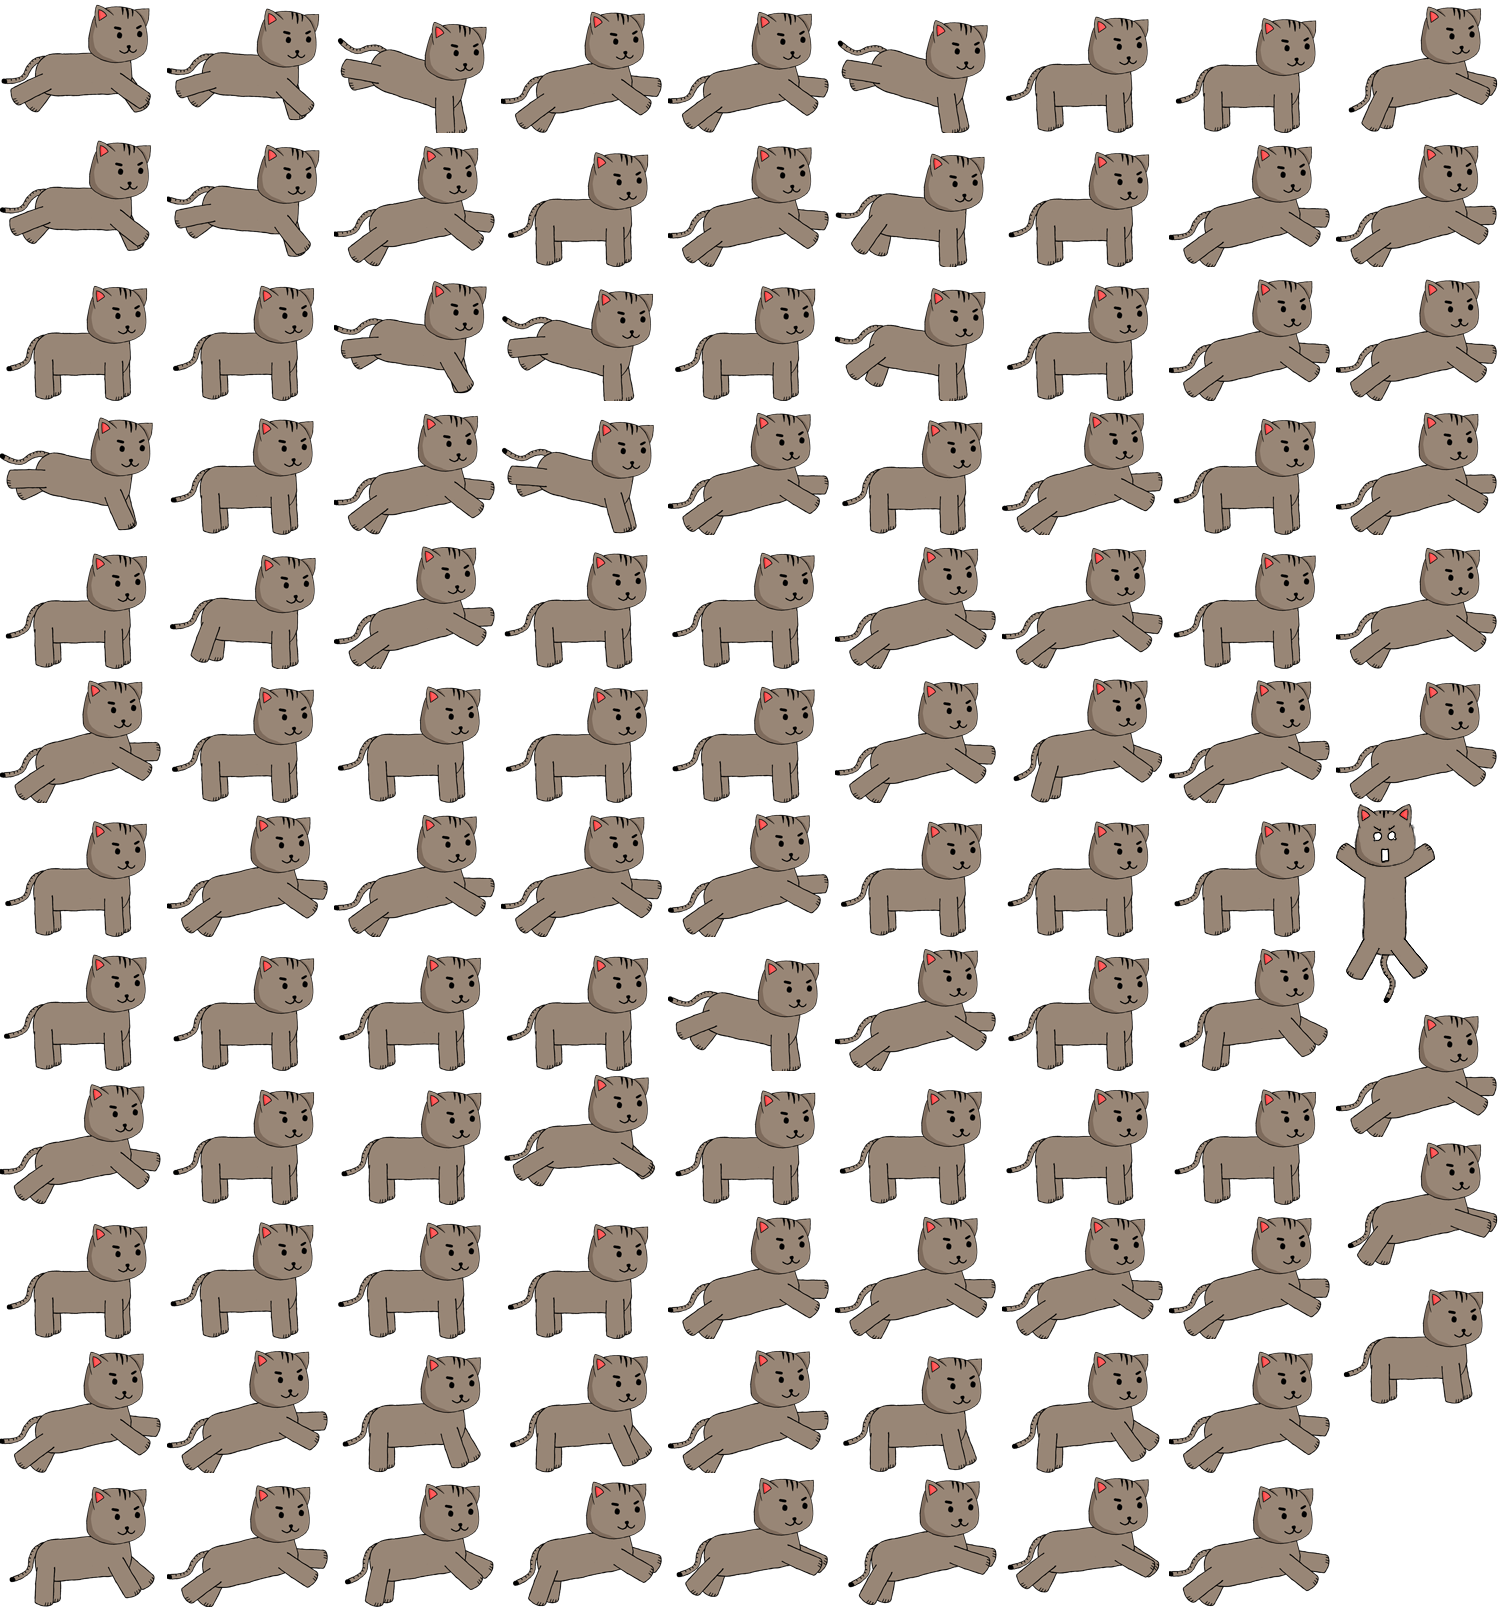
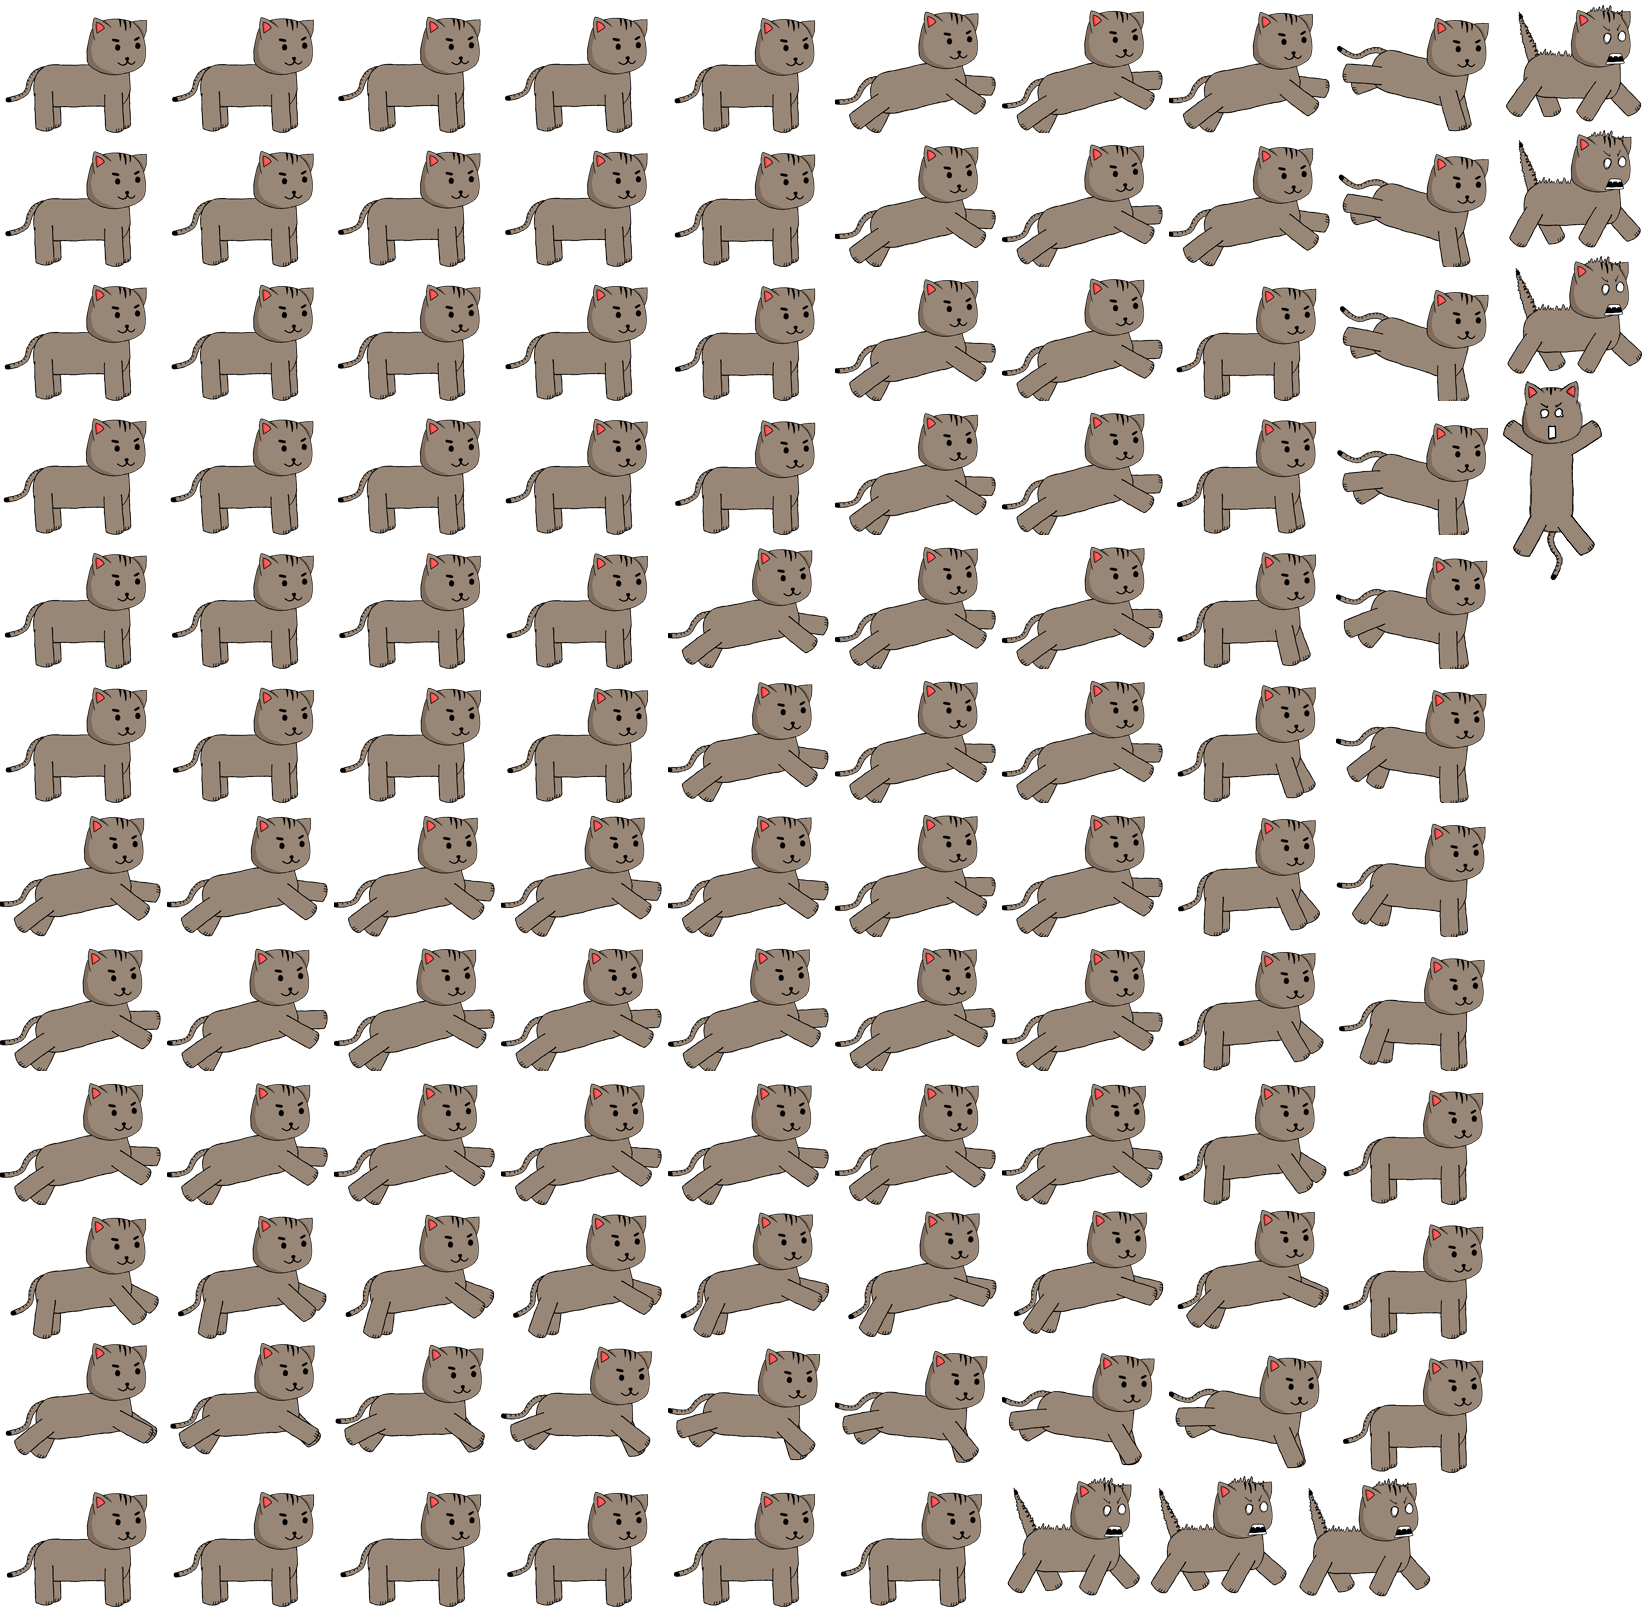
Fear behavior rework, fear animation, fixed spikes and respawn.

diff --git a/Client/scenes/main.js b/Client/scenes/main.js
@@ -180,6 +180,11 @@ export default class Main extends Scene {
             key: 'jump', frameRate: 60, repeat: -1,
             frames: this.anims.generateFrameNames('player', { prefix: 'Jump_', start: 1, end: 36, zeroPad: 3})
         });
+
+        this.anims.create({
+            key: 'fear', frameRate: 60, repeat: -1,
+            frames: this.anims.generateFrameNames('player', { prefix: 'Fear_', start:1, end: 5, zeroPad:3 })
+        })
         
         this.anims.create({
             key: 'ded', frameRate: 10,
@@ -196,7 +201,7 @@ export default class Main extends Scene {
             immovable: true
         });
 
-        let spikeObjects = this.maps.getObjectLayer('Traps')['objects'];
+        let spikeObjects = this.maps.getObjectLayer('Spikes')['objects'];
         spikeObjects.forEach(spikeObject => {
             // Add new spikes to our sprite group, change the start y position to meet the platform
             const spike = this.traps.spikes.create(spikeObject.x, spikeObject.y - spikeObject.height, 'spikeTrap').setOrigin(0, 0);
@@ -234,9 +239,12 @@ export default class Main extends Scene {
             this.cameras.main.startFollow(this.player);
             this.player.alive = true;
 
+            // Recreation of world collisions
             this.physics.add.collider(this.layers.tiles, this.player);
+            this.physics.add.collider(this.layers.platform, this.player);
             this.physics.add.collider(this.player, this.traps.spikes, this.killPlayer, null, this);
 
+            // Reset player state
             this.player.setCollideWorldBounds(true);
             this.player.setVelocity(0,0);
             this.player.body.angularVelocity = 0;
@@ -245,6 +253,13 @@ export default class Main extends Scene {
             this.player.setRotation(0);
             this.player.anims.play('idle', true);
             this.player.body.allowRotation = false;
+
+            // Recreation of bonuses detections
+            this.physics.add.overlap(this.player, this.layers.fishLayer);
+            this.physics.add.overlap(this.player, this.layers.chocoLayer);
+            this.physics.add.overlap(this.player, this.layers.cucumLayer);
+            this.physics.add.overlap(this.player, this.layers.birdLayer);
+            this.physics.add.overlap(this.player, this.layers.trampLayer);
         }, 2000);
     }
 
@@ -289,9 +304,8 @@ export default class Main extends Scene {
         let frightened;
         this.layers.cucumLayer.removeTileAt(tile.x, tile.y);
         this.effects.fear = true;
-        if (this.effects.fear) {
-            frightened = setInterval(() => { this.player.body.setVelocityY(-5000) }, 100);
-        }
+        this.player.body.setVelocityX((Math.random() * 1000) - 500);
+        this.player.body.setVelocityY(-500);
         this.message.setText('Aaaaaaah un concombre !!');
         this.audios.effect.scream.play();
         setTimeout(() => {
@@ -376,7 +390,7 @@ export default class Main extends Scene {
         this.manageCamera();
         this.registerAnimations();
         this.createBonus();
-        // this.manageSpikes(); // Broken
+        this.manageSpikes();
 
         // Create message displayed to screen
         this.message = this.add.text(20, 570, null, {
@@ -427,7 +441,7 @@ export default class Main extends Scene {
                 }
             } else {
                 this.player.body.setVelocityX(0);
-                if (this.player.body.onFloor()) {
+                if (this.player.body.onFloor() && !this.effects.fear) {
                     this.player.anims.play('idle', true); // play idle animation
                 }
             }  
@@ -437,8 +451,12 @@ export default class Main extends Scene {
                 this.player.body.setVelocityY(-800); // Jump
             }
 
-            if (!this.player.body.onFloor()) {
+            if (!this.player.body.onFloor() && !this.effects.fear) {
                 this.player.anims.play('jump', true); // play jump animation
+            }
+
+            if (this.effects.fear){
+                this.player.anims.play('fear', true)
             }
 
             if (this.cursors.space.isDown) {

diff --git a/Client/scenes/loading.js b/Client/scenes/loading.js
@@ -27,6 +27,7 @@ export default class Loading extends Scene {
         this.load.spritesheet('tiles', 'images/tiles.png', { frameWidth: 70, frameHeight: 70});
         this.load.spritesheet('plateformes', 'images/plateformes.png', {frameWidth: 70, frameHeight: 70});
         this.load.spritesheet('sea', 'images/sea.png', { frameWidth: 70, frameHeight: 70});
+        this.load.spritesheet('spikeTrap', 'images/spikesTrap.png', { frameWidth: 70, frameHeight: 70});
         
         // Load images assets
         this.load.image('coin', 'images/coinGold.png');
